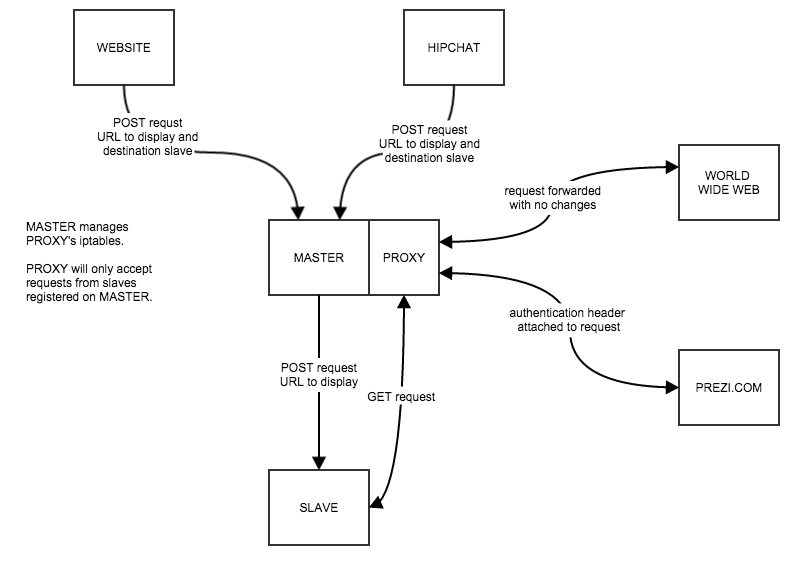
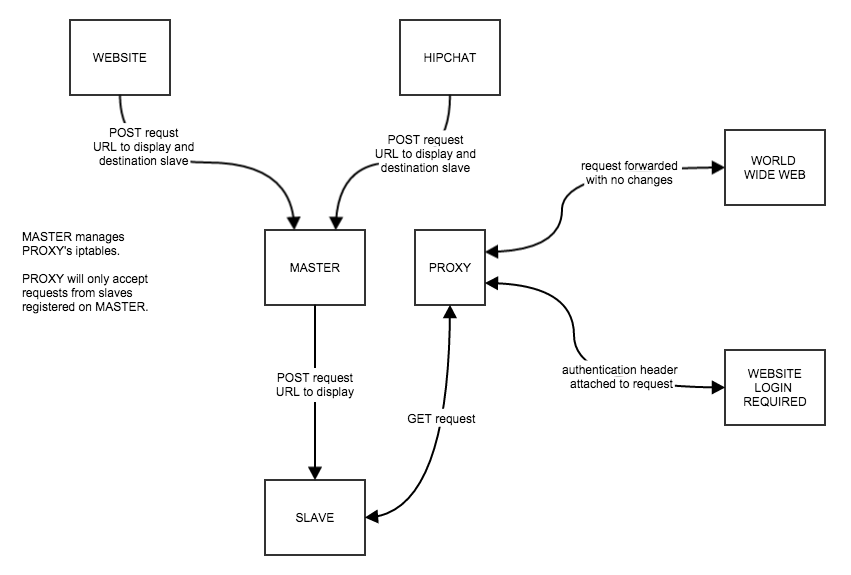
update Astapor
Fix diagram -- proxy should be separate from master.
Replace PREZI.COM with WEBSITE, LOGIN REQUIRED.
Center arrow on WORLD WIDE WEB
Unlink Astapor from GoT page.
website and[/or] HipChat bot
see your [requested URL] post on the indicated slave. :)
screenshot for website on wiki

Changed region(s): [[0.0621, 0.0, 0.9938, 0.9929], [0.0311, 0.3912, 0.1863, 0.5416], [0.3106, 0.6319, 0.4348, 0.692]]

diff --git a/src/website/views/form.html b/src/website/views/form.html
@@ -1,7 +1,7 @@
 <!DOCTYPE html>
 <html>
 <head>
-    <title>Dashing Control</title>
+    <title>Astapor</title>
     <script src="http://ajax.googleapis.com/ajax/libs/jquery/2.1.1/jquery.min.js"></script>
     <!-- Latest compiled and minified CSS -->
     <link rel="stylesheet" href="https://maxcdn.bootstrapcdn.com/bootstrap/3.3.1/css/bootstrap.min.css">
@@ -21,7 +21,7 @@
     <nav class="navbar navbar-inverse navbar-fixed-top" role="navigation">
         <div class="container">
             <div class="navbar-header">
-                <a class="navbar-brand" href="#">Dashboard Control</a>
+                <a class="navbar-brand">Astapor</a>
             </div>
             <ul class="nav navbar-nav navbar-right">
                 <li><p class="navbar-text"> Username: {{.UserName}} </p></li>

diff --git a/src/website/views/login.html b/src/website/views/login.html
@@ -1,6 +1,6 @@
 <html>
 <head>
-    <title>Dashing Control</title>
+    <title>Astapor</title>
     <!-- Latest compiled and minified CSS -->
     <link rel="stylesheet" href="https://maxcdn.bootstrapcdn.com/bootstrap/3.3.1/css/bootstrap.min.css">
 
@@ -26,7 +26,7 @@
             <span class="icon-bar"></span>
             <span class="icon-bar"></span>
           </button>
-          <a class="navbar-brand" href="#">Dashboard Control</a>
+          <a class="navbar-brand">Astapor</a>
         </div>
       </div>
     </nav>

diff --git a/src/slave/slave/setUp.go b/src/slave/slave/setUp.go
@@ -3,9 +3,9 @@ package slave
 import (
 	"flag"
 	"fmt"
-	"os"
 	"net"
 	"network"
+	"os"
 )
 
 const (

diff --git a/README.md b/README.md
@@ -1,6 +1,10 @@
 Astapor
 ====================
 
+<p align="center">
+  <img src="../master/README_images/Astapor_webpage.png?raw=true)"/>
+</p>
+
 Contents
  - [Introduction](https://github.com/prezi/dashboard-controller#introduction)
  - [Architecture](https://github.com/prezi/dashboard-controller#architecture)
@@ -10,7 +14,7 @@ Contents
 Introduction
 ------------------
 
-Use the [Astapor](http://gameofthrones.wikia.com/wiki/Astapor) program to remotely open urls on browser windows.
+Use the Astapor program to remotely open URLs on browser windows.
 
 Slave runs on Raspberry Pis or Apple Mac Minis connected to monitors. 
 The master runs on one Raspberry Pi or Apple Mac Mini. 
@@ -25,25 +29,23 @@ Architecture
   <img src="../master/README_images/master_slave_architecture.png?raw=true)"/>
 </p>
 
- - website and HipChat bot
+ - website and/or HipChat bot
   - Sends user input as JSON in a POST request to master.
  - master
   - Receives JSON from the website or HipChat bot. 
   - Parses the input and passes JSON to proper slave. 
   - Compatible with OS X. 
  - slave 
-  - Receives url from master and loads url in a browser. 
+  - Receives URL from master and loads URL in a browser. 
   - Compatible with OS X and Linux operating systems with Google Chrome installed. 
 
 
 Alternatively, the slave can be extended with a proxy to open sites that require user authentication. 
 
  - proxy ([mitmproxy](https://mitmproxy.org/))
-  - Receives and forwards GET request from slave. 
-  - If request is for a domain that requires authentication, attaches a authentication header to the request.
+  - Receives and forwards all GET requests from slave. 
+  - If request is for a domain that requires authentication, attaches the proper authentication header to the request.
   - Sends website content back to slave. 
-
-Alternatively, the slave can be extended with a proxy to open sites that require user authentication. 
 
 
 <p align="center">
@@ -88,7 +90,7 @@ The slave will automatically map itself to the master and periodically emit hear
 Submitting a URL
 ------------------
 
-Access the website running on your localhost. Fill in the text fields, submit, and see your url post on the indicated slave. :) 
+Access the website running on your localhost. Fill in the text fields, submit, and see your URL post on the indicated slave. :) 
 
 <p align="center">
   <img src="../master/README_images/giphy.gif?raw=true" alt="nyan nyan nyan"/>
